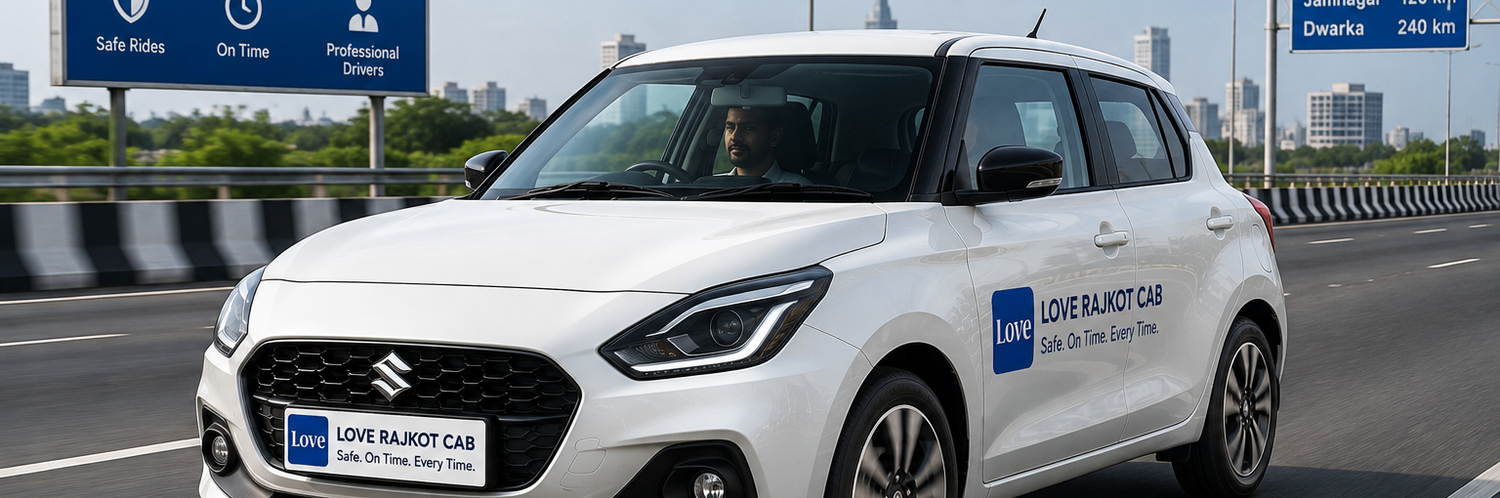
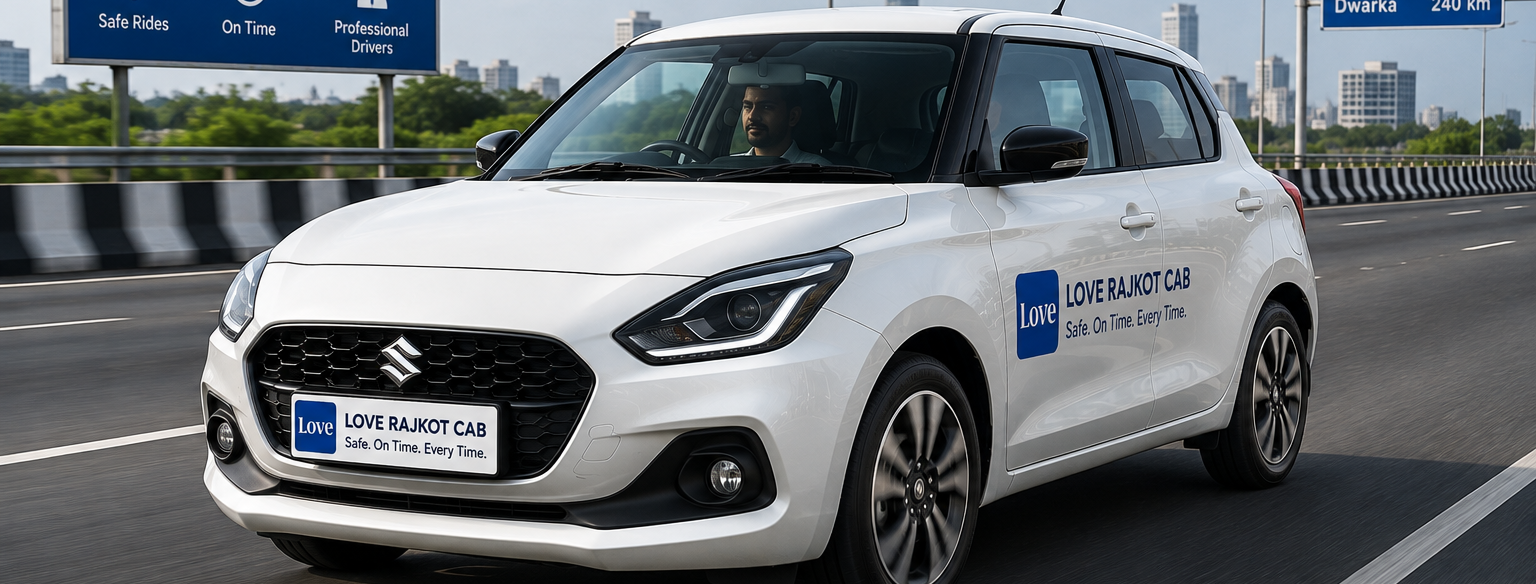
Update trust section

diff --git a/TrustSection.html b/TrustSection.html
@@ -12,8 +12,8 @@
 <script src="_ds/_ds_bundle.js"></script>
 <link rel="stylesheet" href="site.css">
 <style>
-.trust-section{position:relative!important;overflow:hidden!important;min-height:clamp(240px,28vw,380px);display:flex;align-items:center}
-.trust-section::before{content:"";position:absolute;inset:0;background-image:linear-gradient(rgba(10,17,31,.6),rgba(10,17,31,.6)),url("uploads/taxi.png");background-repeat:no-repeat;background-position:center;background-size:cover;pointer-events:none}
+.trust-section{position:relative!important;overflow:hidden!important;min-height:clamp(360px,42vw,560px);display:flex;align-items:center}
+.trust-section::before{content:"";position:absolute;inset:0;background-image:linear-gradient(rgba(10,17,31,.6),rgba(10,17,31,.6)),url("uploads/taxi.png");background-repeat:no-repeat;background-position:center 65%;background-size:cover;pointer-events:none}
 .trust-section>[data-pad]{position:relative;z-index:1;width:100%}
 </style>
 </helmet>
